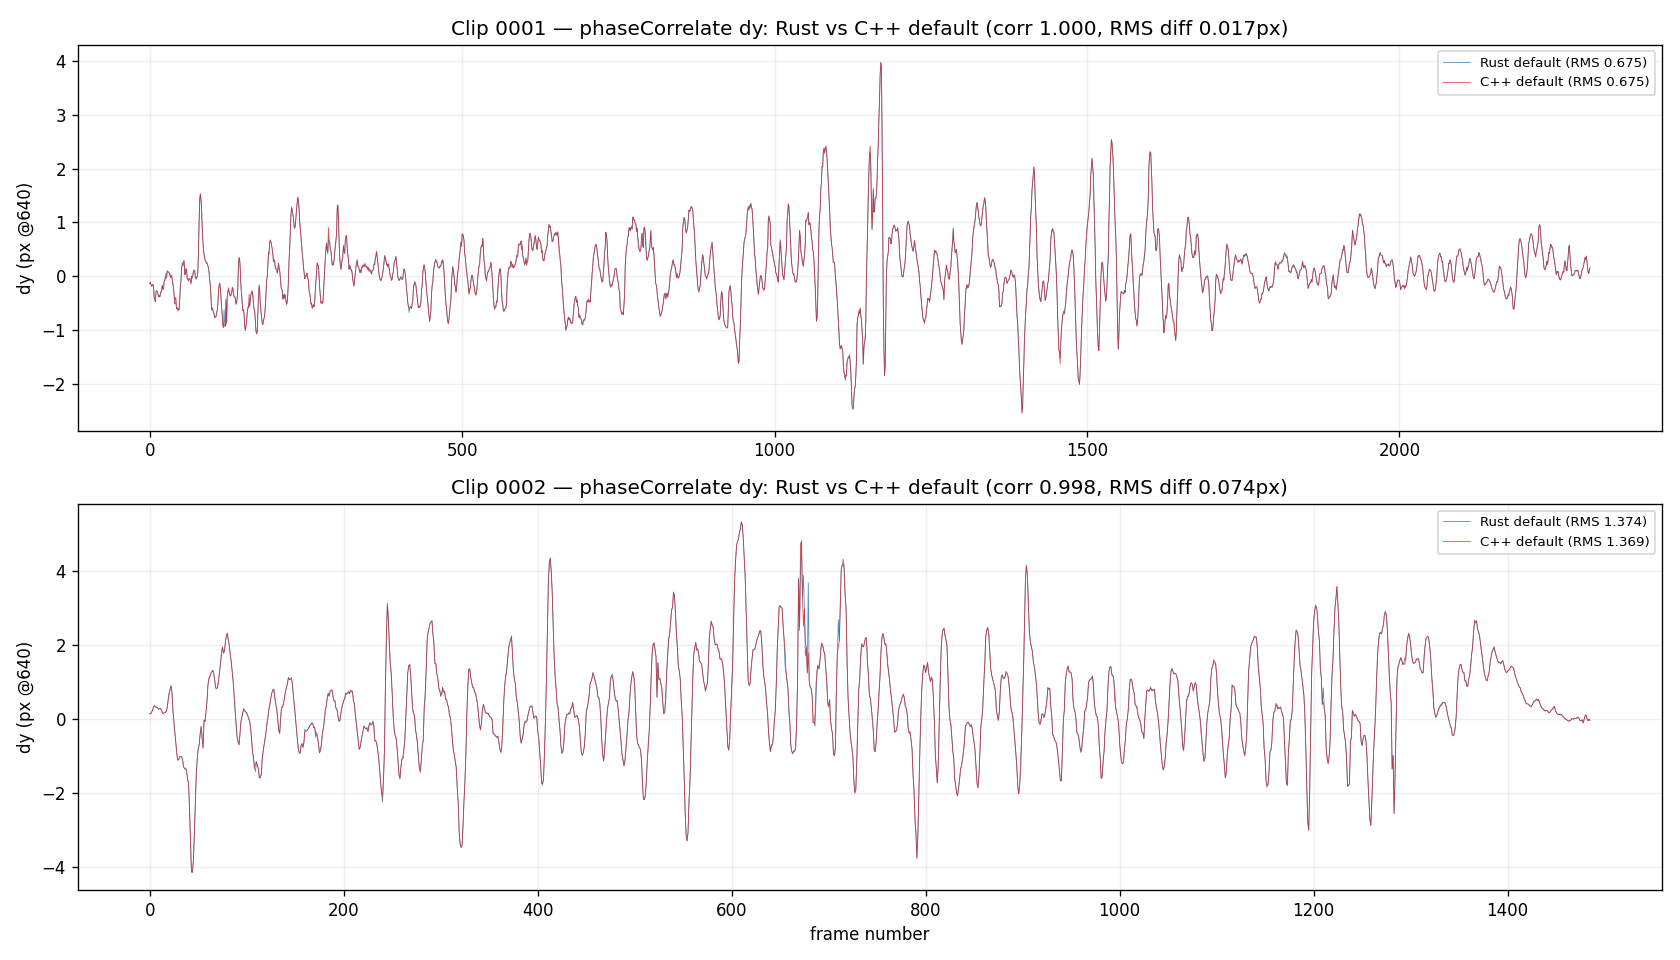
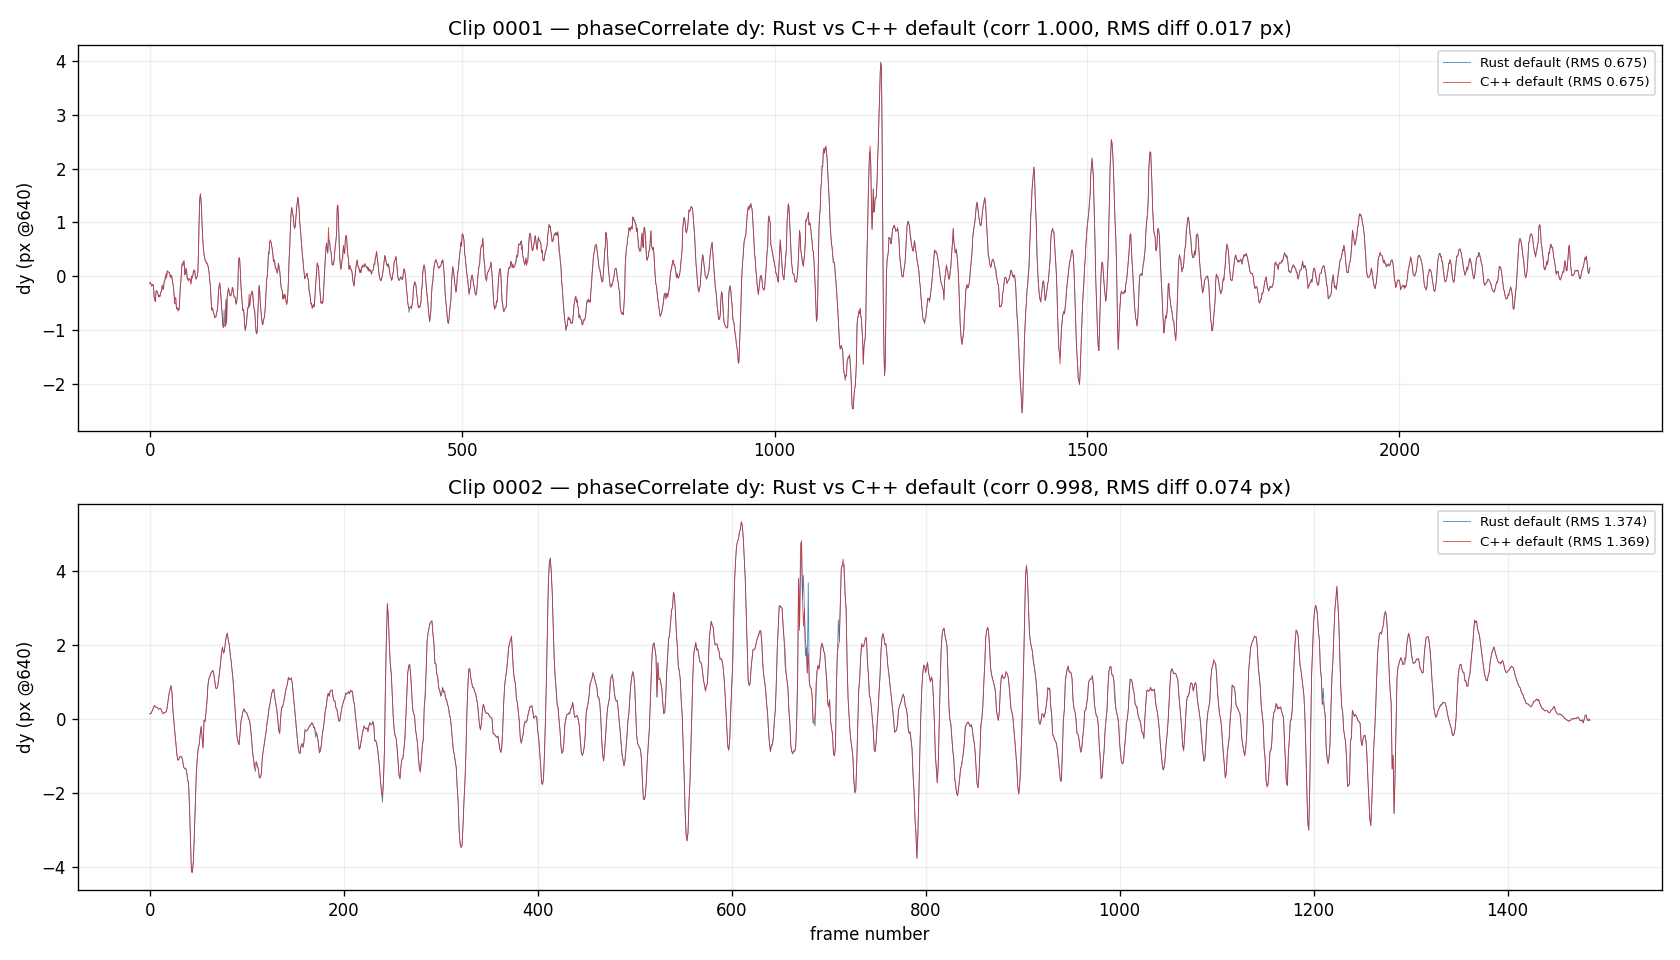
tools: add rust_vs_cpp_dy.py + tidy tools/ (shared video_metrics, index README)
- New tools/rust_vs_cpp_dy.py: the Rust-vs-C++ default-render dy parity check that
  backed COMPARISON §4 was inline-only; make it a reusable script (--pair repeatable).
- Dedup: factor the duplicated phaseCorrelate vertical_flow + edge-connected
  black-border helpers into gyro_analysis/video_metrics.py; vertical_flow_compare.py
  and black_border_stats.py now import them (behaviour unchanged — regenerated figure
  reproduces the same 0.017/0.074px, corr 1.000/0.998).
- New tools/README.md indexes ALL scripts in three groups (DJI telemetry, cpp_core
  bridge/validation, image-domain eval) + the gyro_analysis package.
- Point COMPARISON §4, figures/README, and CLAUDE.md at the new script / index.

Claude-Session: https://claude.ai/code/session_01AJzF16XXvvuX3TJCKcokCX

Changed region(s): [[0.2786, 0.0, 0.7738, 0.0625], [0.2476, 0.5, 0.7738, 0.5312]]

diff --git a/tools/gyro_analysis/video_metrics.py b/tools/gyro_analysis/video_metrics.py
@@ -1,0 +1,98 @@
+"""Shared image-domain video metrics for cpp_core stabilization evaluation.
+
+Used by tools/{vertical_flow_compare,black_border_stats,rust_vs_cpp_dy}.py so the
+metric definitions live in one place. See cpp_core/figures/README.md for the write-up.
+"""
+import os
+import cv2
+import numpy as np
+
+
+def vertical_flow(path, width=640, max_frames=None):
+    """Per-frame global vertical shift dy (px) between consecutive frames.
+
+    Estimates the single global sub-pixel translation with cv2.phaseCorrelate (a
+    Hanning window suppresses FFT edge effects) and keeps the vertical component.
+    Frames are resized to `width` px wide first, so dy is in pixels at that scale.
+    Returns a 1-D np.ndarray of length (n_frames - 1).
+    """
+    cap = cv2.VideoCapture(path)
+    if not cap.isOpened():
+        raise RuntimeError(f"cannot open {path}")
+    ok, prev = cap.read()
+    if not ok:
+        raise RuntimeError(f"empty video {path}")
+    scale = width / prev.shape[1]
+    size = (width, int(round(prev.shape[0] * scale)))
+    win = cv2.createHanningWindow(size, cv2.CV_32F)
+
+    def prep(f):
+        return np.float32(cv2.cvtColor(cv2.resize(f, size), cv2.COLOR_BGR2GRAY))
+
+    prev_g = prep(prev)
+    dys = []
+    i = 0
+    while True:
+        ok, cur = cap.read()
+        if not ok:
+            break
+        cur_g = prep(cur)
+        (_dx, dy), _resp = cv2.phaseCorrelate(prev_g, cur_g, win)
+        dys.append(dy)
+        prev_g = cur_g
+        i += 1
+        if i % 200 == 0:
+            print(f"  {os.path.basename(path)}: {i} frames", flush=True)
+        if max_frames and i >= max_frames:
+            break
+    cap.release()
+    return np.asarray(dys)
+
+
+def edge_black_series(path, width=480, thresh=8, stride=5, max_frames=None):
+    """Per-(sampled)-frame black-border fraction (% of frame).
+
+    Near-black pixels (<= thresh) that are connected to the frame edge (flood from
+    the border via connected components) — this ignores genuinely dark scene content
+    not touching an edge. `stride` sub-samples frames (grab-skip) for speed.
+    Returns (idxs, fracs) as np.ndarrays.
+    """
+    cap = cv2.VideoCapture(path)
+    if not cap.isOpened():
+        raise RuntimeError(f"cannot open {path}")
+    fracs, idxs = [], []
+    i = -1
+    got = 0
+    size = None
+    while True:
+        if not cap.grab():
+            break
+        i += 1
+        if i % stride != 0:
+            continue
+        ok, f = cap.retrieve()
+        if not ok:
+            break
+        if size is None:
+            scale = width / f.shape[1]
+            size = (width, int(round(f.shape[0] * scale)))
+        g = cv2.cvtColor(cv2.resize(f, size), cv2.COLOR_BGR2GRAY)
+        mask = (g <= thresh).astype(np.uint8)
+        area = 0
+        if mask.any():
+            _num, labels = cv2.connectedComponents(mask, connectivity=8)
+            border = np.concatenate([labels[0, :], labels[-1, :],
+                                     labels[:, 0], labels[:, -1]])
+            border_lbls = np.unique(border)
+            border_lbls = border_lbls[border_lbls != 0]
+            if border_lbls.size:
+                area = np.isin(labels, border_lbls).sum()
+        fracs.append(100.0 * area / (size[0] * size[1]))
+        idxs.append(i)
+        got += 1
+        if got % 200 == 0:
+            print(f"  {os.path.basename(path)}: {got} sampled (frame {i})", flush=True)
+        if max_frames and i >= max_frames:
+            break
+    cap.release()
+    return np.asarray(idxs), np.asarray(fracs)

diff --git a/tools/rust_vs_cpp_dy.py b/tools/rust_vs_cpp_dy.py
@@ -1,0 +1,63 @@
+#!/usr/bin/env python3
+"""Port-parity check: Rust vs C++ default renders via phaseCorrelate dy.
+
+Compares two stabilized renders of the same clip produced under identical default
+parameters — one by Rust Gyroflow (from the exported .gyroflow project), one by the
+C++ port — on the per-frame global vertical shift `dy` (see
+cpp_core/figures/README.md). Prints RMS dy for each, the per-frame RMS difference and
+correlation, and writes an overlay plot. Backs cpp_core/COMPARISON.md §4.
+
+Usage:
+  python3 tools/rust_vs_cpp_dy.py \
+    --pair 0001 RUST_0001.mp4 CPP_0001.mp4 \
+    --pair 0002 RUST_0002.mp4 CPP_0002.mp4 \
+    -o cpp_core/figures/rust_vs_cpp_default_dy.png
+"""
+import os, argparse
+os.environ.setdefault("MPLBACKEND", "Agg")
+import numpy as np
+import matplotlib.pyplot as plt
+
+from gyro_analysis.video_metrics import vertical_flow
+
+
+def main():
+    ap = argparse.ArgumentParser()
+    ap.add_argument("--pair", nargs=3, action="append", metavar=("LABEL", "RUST", "CPP"),
+                    required=True, help="clip label + Rust render + C++ render (repeatable)")
+    ap.add_argument("--width", type=int, default=640)
+    ap.add_argument("-o", "--out", default="rust_vs_cpp_default_dy.png")
+    args = ap.parse_args()
+
+    fig, axes = plt.subplots(len(args.pair), 1, figsize=(14, 4 * len(args.pair)))
+    if len(args.pair) == 1:
+        axes = [axes]
+    print(f"{'clip':6} {'rust RMS':>9} {'cpp RMS':>9} {'ratio':>6} "
+          f"{'RMS(rust-cpp)':>13} {'corr':>6}")
+    for ax, (label, rust, cpp) in zip(axes, args.pair):
+        print(f"Analyzing {label} ...", flush=True)
+        r = vertical_flow(rust, args.width)
+        c = vertical_flow(cpp, args.width)
+        n = min(len(r), len(c))
+        r, c = r[:n], c[:n]
+        rmsR = np.sqrt(np.mean(r ** 2))
+        rmsC = np.sqrt(np.mean(c ** 2))
+        diff = np.sqrt(np.mean((r - c) ** 2))
+        corr = np.corrcoef(r, c)[0, 1]
+        print(f"{label:6} {rmsR:9.3f} {rmsC:9.3f} {rmsC / rmsR:6.3f} "
+              f"{diff:13.3f} {corr:6.3f}")
+        ax.plot(r, lw=0.5, color="#1f77b4", alpha=0.85, label=f"Rust default (RMS {rmsR:.3f})")
+        ax.plot(c, lw=0.5, color="#d62728", alpha=0.85, label=f"C++ default (RMS {rmsC:.3f})")
+        ax.set_title(f"Clip {label} — phaseCorrelate dy: Rust vs C++ default "
+                     f"(corr {corr:.3f}, RMS diff {diff:.3f} px)")
+        ax.set_ylabel(f"dy (px @{args.width})")
+        ax.grid(alpha=0.2)
+        ax.legend(fontsize=8, loc="upper right")
+    axes[-1].set_xlabel("frame number")
+    fig.tight_layout()
+    fig.savefig(args.out, dpi=120)
+    print(f"\nWrote {args.out}")
+
+
+if __name__ == "__main__":
+    main()

diff --git a/tools/black_border_stats.py b/tools/black_border_stats.py
@@ -9,55 +9,10 @@ scene content that is not connected to an edge. Metric = that area / total px.
 """
 import os, argparse
 os.environ.setdefault("MPLBACKEND", "Agg")
-import cv2
 import numpy as np
 import matplotlib.pyplot as plt
 
-
-def border_black_series(path, width=480, thresh=8, stride=5, max_frames=None):
-    cap = cv2.VideoCapture(path)
-    if not cap.isOpened():
-        raise RuntimeError(f"cannot open {path}")
-    fracs, idxs = [], []
-    i = -1
-    got = 0
-    size = None
-    while True:
-        ok = cap.grab()
-        if not ok:
-            break
-        i += 1
-        if i % stride != 0:
-            continue
-        ok, f = cap.retrieve()
-        if not ok:
-            break
-        if size is None:
-            scale = width / f.shape[1]
-            size = (width, int(round(f.shape[0] * scale)))
-        g = cv2.cvtColor(cv2.resize(f, size), cv2.COLOR_BGR2GRAY)
-        mask = (g <= thresh).astype(np.uint8)
-        if mask.any():
-            num, labels = cv2.connectedComponents(mask, connectivity=8)
-            border = np.concatenate([labels[0, :], labels[-1, :],
-                                     labels[:, 0], labels[:, -1]])
-            border_lbls = np.unique(border)
-            border_lbls = border_lbls[border_lbls != 0]
-            if border_lbls.size:
-                area = np.isin(labels, border_lbls).sum()
-            else:
-                area = 0
-        else:
-            area = 0
-        fracs.append(100.0 * area / (size[0] * size[1]))
-        idxs.append(i)
-        got += 1
-        if got % 200 == 0:
-            print(f"  {os.path.basename(path)}: {got} sampled (frame {i})", flush=True)
-        if max_frames and i >= max_frames:
-            break
-    cap.release()
-    return np.asarray(idxs), np.asarray(fracs)
+from gyro_analysis.video_metrics import edge_black_series
 
 
 def main():
@@ -89,7 +44,7 @@ def main():
                 print(f"SKIP missing {p}")
                 continue
             print(f"Analyzing {fn} ...", flush=True)
-            idx, frac = border_black_series(p, args.width, args.thresh, args.stride, args.max_frames)
+            idx, frac = edge_black_series(p, args.width, args.thresh, args.stride, args.max_frames)
             ts[(clip, label)] = (idx, frac)
             stats[(clip, label)] = dict(
                 mean=float(np.mean(frac)), mx=float(np.max(frac)),

diff --git a/tools/vertical_flow_compare.py b/tools/vertical_flow_compare.py
@@ -6,46 +6,12 @@ sub-pixel translation with cv2.phaseCorrelate; keep the vertical component
 (dy = per-frame up/down shift, in pixels of the analysis resolution).
 Plot dy vs frame number, overlaying the modes for comparison.
 """
-import os, sys, argparse
+import os, argparse
 os.environ.setdefault("MPLBACKEND", "Agg")
-import cv2
 import numpy as np
 import matplotlib.pyplot as plt
 
-
-def vertical_flow(path, width=640, max_frames=None):
-    cap = cv2.VideoCapture(path)
-    if not cap.isOpened():
-        raise RuntimeError(f"cannot open {path}")
-    ok, prev = cap.read()
-    if not ok:
-        raise RuntimeError(f"empty video {path}")
-    scale = width / prev.shape[1]
-    size = (width, int(round(prev.shape[0] * scale)))
-    win = cv2.createHanningWindow(size, cv2.CV_32F)
-
-    def prep(f):
-        g = cv2.cvtColor(cv2.resize(f, size), cv2.COLOR_BGR2GRAY)
-        return np.float32(g)
-
-    prev_g = prep(prev)
-    dys = []
-    i = 0
-    while True:
-        ok, cur = cap.read()
-        if not ok:
-            break
-        cur_g = prep(cur)
-        (dx, dy), _resp = cv2.phaseCorrelate(prev_g, cur_g, win)
-        dys.append(dy)
-        prev_g = cur_g
-        i += 1
-        if max_frames and i >= max_frames:
-            break
-        if i % 200 == 0:
-            print(f"  {os.path.basename(path)}: {i} frames", flush=True)
-    cap.release()
-    return np.asarray(dys)
+from gyro_analysis.video_metrics import vertical_flow
 
 
 def main():

diff --git a/tools/README.md b/tools/README.md
@@ -1,0 +1,55 @@
+# `tools/` — DJI telemetry & cpp_core evaluation scripts
+
+Python 3.10+ helper scripts (need `numpy`, `matplotlib`, and — for the image-domain metrics —
+`opencv-python`). On a headless box set `MPLBACKEND=Agg`. Run everything **from the repo root**
+(`python3 tools/<script>.py …`); the scripts import the shared `gyro_analysis` package by relative
+name, which resolves because `tools/` is on `sys.path[0]` when a script there is run directly.
+
+Several scripts shell out to a built **Gyroflow** binary; they locate it via `--gyroflow-bin`,
+`$GYROFLOW_BIN`, or `gyroflow`/`Gyroflow` on `PATH`.
+
+These are **not** part of upstream Gyroflow — they support the DJI-quaternion analysis and the
+`cpp_core/` C++ port (see `cpp_core/README.md`, `cpp_core/COMPARISON.md`, `cpp_core/SMOOTHING_RND.md`,
+and `cpp_core/figures/README.md`).
+
+## 1. DJI telemetry extraction & analysis
+Full command reference: [`README_DJI_quaternion.md`](README_DJI_quaternion.md).
+
+| script | purpose |
+|---|---|
+| `inspect_dji_meta.py` | minimal MP4 parser: inspect DJI metadata tracks, estimate sample rates |
+| `decode_pb.py` | walk raw protobuf wire format (no schema) and summarize structure |
+| `dji_imu_rate.py` | estimate DJI IMU / attitude sample frequency from the MP4 metadata track |
+| `dji_export_quaternions_full.py` | export the COMPLETE DJI fused-quaternion stream from an MP4 |
+| `dji_mp4_quaternion_analysis.py` | extract quaternions via Gyroflow, plot angle / angular-velocity curves |
+| `gcsv_simple_gyro_compare.py` | integrate a GCSV with the Gyroflow "Simple gyro", compare curves |
+
+## 2. cpp_core bridge & golden validation
+
+| script | purpose |
+|---|---|
+| `export_bridge_json.py` | export the Phase-1 "bridge" telemetry JSON (fused quats + lens + readout) the C++ stabilizer consumes |
+| `compare_gyroflow_metadata.py` | validate `gyroflow_cpp_validate` output against Rust Gyroflow's golden per-frame metadata (math parity) |
+| `make_comparison_project.py` | build a `.gyroflow` project for an apples-to-apples C++-vs-Gyroflow render (8-bit source, Bilinear) |
+| `frame_psnr.py` | frame-by-frame PSNR / pixel error between two equally-sized, frame-aligned videos |
+
+## 3. Image-domain stabilization evaluation
+Metric definitions + reproduce commands: [`../cpp_core/figures/README.md`](../cpp_core/figures/README.md).
+
+| script | purpose |
+|---|---|
+| `stabilization_quality.py` | how *stable* a video is (ITF + residual inter-frame motion), before vs after |
+| `vertical_flow_compare.py` | per-frame vertical shift `dy` (`phaseCorrelate`) across smoothing configs (+ optional DJI reference) |
+| `black_border_stats.py` | edge-connected near-black area per frame (mean / max + time series) |
+| `zoom_vs_maxzoom.py` | required zoom (`1/raw_fov`) vs applied zoom vs the `max_zoom` clamp, from `gyroflow_cpp_validate` CSVs |
+| `rust_vs_cpp_dy.py` | Rust-vs-C++ **default**-render parity via `dy` (backs `COMPARISON.md` §4) |
+
+## Shared package — `gyro_analysis/`
+
+| module | contents |
+|---|---|
+| `math_utils.py` | quaternion / euler / integration helpers |
+| `gyroflow_export.py` | drive a Gyroflow binary, load its exported camera-data CSV / quaternions |
+| `gcsv.py` | read GCSV gyro logs |
+| `plotting.py` | shared quaternion angle/velocity plots + CSV writers |
+| `video_metrics.py` | image-domain video metrics: `vertical_flow` (phaseCorrelate `dy`) and `edge_black_series` (border-connected black area) — shared by the §3 scripts |

diff --git a/cpp_core/figures/README.md b/cpp_core/figures/README.md
@@ -17,7 +17,7 @@ All commands are run from the **repo root**. On a headless box prefix Python wit
 | `vertical_flow_all_configs_vs_dji.png` | `tools/vertical_flow_compare.py` | same, plus a DJI in-camera reference clip per subplot |
 | `black_border_stats.png` | `tools/black_border_stats.py` | edge-connected near-black area per frame (mean/max + time series) |
 | `zoom_vs_maxzoom.png` | `tools/zoom_vs_maxzoom.py` | required zoom (`1/raw_fov`) vs applied zoom (`1/fov`) vs the `max_zoom` clamp |
-| `rust_vs_cpp_default_dy.png` | inline script (see `../COMPARISON.md` §4) | `dy` of Rust vs C++ **default** renders, identical params — port-parity check |
+| `rust_vs_cpp_default_dy.png` | `tools/rust_vs_cpp_dy.py` | `dy` of Rust vs C++ **default** renders, identical params — port-parity check |
 
 The first two scripts read **rendered videos**; the third reads **validate CSVs** (no video,
 much faster).
@@ -116,6 +116,12 @@ MPLBACKEND=Agg python3 tools/black_border_stats.py --dir "$CPP_OUT" --width 480 
 # Required vs applied zoom vs max_zoom clamp (reads the validate CSVs)
 MPLBACKEND=Agg python3 tools/zoom_vs_maxzoom.py --dir "$CPP_OUT" --max-zoom 1.30 \
   -o cpp_core/figures/zoom_vs_maxzoom.png
+
+# Rust-vs-C++ default parity (needs a Rust render per clip first — see ../COMPARISON.md §4)
+MPLBACKEND=Agg python3 tools/rust_vs_cpp_dy.py \
+  --pair 0001 "$RUN/DJI_..._0001_D_rust_default.mp4" "$CPP_OUT/0001_D_cpp_stabilized.mp4" \
+  --pair 0002 "$RUN/DJI_..._0002_D_rust_default.mp4" "$CPP_OUT/0002_D_cpp_stabilized.mp4" \
+  -o cpp_core/figures/rust_vs_cpp_default_dy.png
 ```
 
 Each script also prints a summary table to stdout (RMS `dy` per config; black-border

diff --git a/CLAUDE.md b/CLAUDE.md
@@ -123,9 +123,10 @@ native DJI protobuf + libav decode are later phases.
 Python 3.10+ scripts (need `numpy`, `matplotlib`) that extract and plot DJI MP4 quaternion
 streams. Several scripts shell out to a built Gyroflow binary to export the same camera-data
 CSV Gyroflow uses internally; they locate it via `--gyroflow-bin`, `$GYROFLOW_BIN`, or
-`gyroflow`/`Gyroflow` on `PATH`. On headless machines set `MPLBACKEND=Agg`. See
-`tools/README_DJI_quaternion.md` for the full command reference; shared helpers live in
-`tools/gyro_analysis/`.
+`gyroflow`/`Gyroflow` on `PATH`. On headless machines set `MPLBACKEND=Agg`. `tools/README.md`
+indexes **all** scripts (DJI telemetry, cpp_core bridge/validation, image-domain eval);
+`tools/README_DJI_quaternion.md` is the full DJI command reference; shared helpers live in
+`tools/gyro_analysis/` (incl. `video_metrics.py` — the phaseCorrelate `dy` / black-border metrics).
 
 ## Conventions
 

diff --git a/cpp_core/COMPARISON.md b/cpp_core/COMPARISON.md
@@ -105,7 +105,8 @@ CPU x264 + 8-bit `yuv420p` to match the C++ 8-bit decode path; the C++ render is
 magnitude agrees to ≤0.3 %, and the per-frame `dy` traces track each other to <0.1 px (corr
 0.998–1.000). The sub-0.1 px residual is the same non-geometric noise as §2 (8-bit decode:
 OpenCV vs libav, x264 encode settings, end-frame alignment 2312 vs 2307), not a stabilization
-difference. Figure: `figures/rust_vs_cpp_default_dy.png`.
+difference. Reproduce with `tools/rust_vs_cpp_dy.py --pair <clip> <rust.mp4> <cpp.mp4> …`;
+figure: `figures/rust_vs_cpp_default_dy.png`.
 
 ## Conclusion
 
